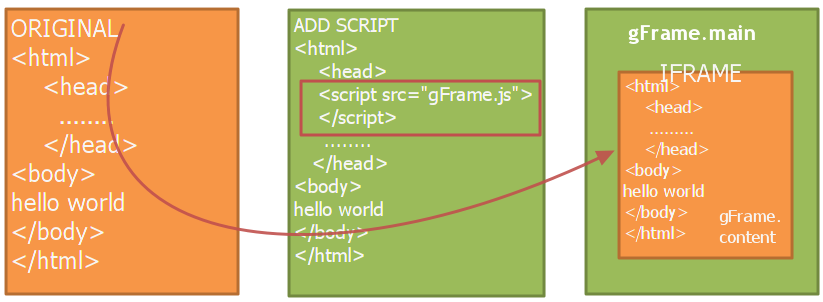
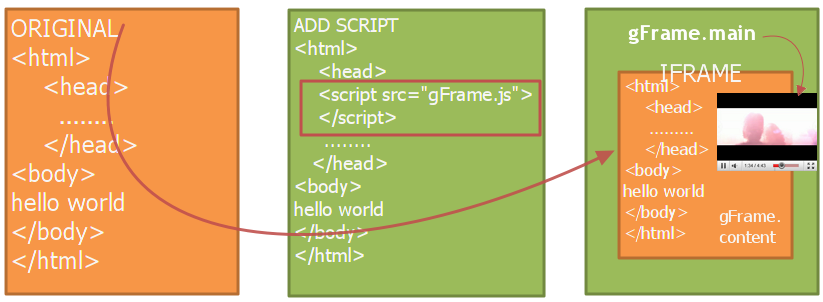
added missing function

Changed region(s): [[0.8505, 0.2682, 1.0, 0.5662], [0.9417, 0.1192, 0.9721, 0.149]]

diff --git a/demo/index.html b/demo/index.html
@@ -8,6 +8,7 @@
 	<style>
     body {
       font-family: Helvetica, Arial, FreeSans, san-serif;
+	  line-height: 1.75em;
 	  color:#434343;
     }
 	#title {text-align:center;font-size:24px; border-bottom:1px solid #DEDEDE;padding:10px;margin:0;line-height:10px;
@@ -49,19 +50,21 @@
 		<span id="ver"></span> <div id="pages"><span>HOME</span><span>DEMO1</span><span>DEMO2</span><span>API</span><span>DOWNLOAD</span></div></h1>
 	<div id="container">
 		<div id="maker"> made by <a href="http://50ndd1n6.tistory.com" target="_blank">50ndd1n6</a> </div>
+		gFrame is for inserting frame document by javascript. Although many skin(or template) of sites can be modified, one can't make a plain html page. If you play the music in the blog without stopping. gFrame helps you. gFrame is available in the mordern browser and old one. From IE5.5 to IE10, gFrame works well. gFrame gives you another useful thing. You can handle element(gLayer) without painful. gFrame is written in ASCII. It is availble in the almost charset. (ASCII, UTF-8, ISO8601-X, EUC-KR, EUC-JP, CP949, ...)    
 		<h3> USAGE </h3>
 		<div id="imgDesc">
 			<img src="image.png" alt="image description"/>
 		</div>
 		<h3> EXAMPLE (gLayer)</h3>
 		<div class="pre">
-		<pre class="brush: js">gFrame("EXAM1", 
+		<pre class="brush: js">gFrame("exam1", 
 		'&lt;embed src="http://www.youtube.com/p/D6142C77D6649A20?hl=ko_KR&amp;fs=1"
 		    type="application/x-shockwave-flash" width="100%" height="100%"
 			allowscriptaccess="always" allowfullscreen="true" wmode="transparent">
 		&lt;/embed>', 
 		{top:30, left:30, width: 240, height: 185, style:'border: 3px solid #f00'});</pre></div>
-		<button id="EXAM1-ON">gFrame.create()</button>
+		<button id="EXAM1-ON">gFrame('exam1','code',options)</button>
+		<button onclick="gFrame('exam1').remove()">gFrame('exam1').remove()</button><br/>
 		<button onclick="gFrame('exam1').hide()">gFrame('exam1').hide()</button>
 		<button onclick="gFrame('exam1').show()">gFrame('exam1').show()</button><br/>
 		<button onclick="gFrame('exam1').toBack()">gFrame('exam1').toBack()</button>
@@ -76,7 +79,7 @@
 		$("#pages span").hover(function(){$(this).addClass("hover")}, function(){$(this).removeClass("hover")});
 		$("#titleWrap").hover(function(){$(this).addClass("hover")}, function(){$(this).removeClass("hover")});
 		$("#EXAM1-ON").click(function(){
-			gFrame("EXAM1", '<embed src="http://www.youtube.com/p/D6142C77D6649A20?hl=ko_KR&amp;fs=1"type="application/x-shockwave-flash" width="100%" height="100%" allowscriptaccess="always" allowfullscreen="true" wmode="transparent"></embed>', 
+			gFrame("exam1", '<embed src="http://www.youtube.com/p/D6142C77D6649A20?hl=ko_KR&amp;fs=1"type="application/x-shockwave-flash" width="100%" height="100%" allowscriptaccess="always" allowfullscreen="true" wmode="transparent"></embed>', 
 			{top:30, left:30, width: 240, height: 185, style:'border: 3px solid #f00'});
 		});
 	});

diff --git a/gFrame.js b/gFrame.js
@@ -220,6 +220,7 @@
 	gFrame.title = function(title) {top.document.title = title; return gFrame};
 	gFrame.get = function(id) {
 		var target = gFrame.main.document.getElementById(id);
+		if (!target) return {};
 		return {
 			id      : target.id,
 			element : target,
@@ -262,7 +263,8 @@
 				} else return gFrame.zIndex(this.id);
 			},
 			hide    : function( ) { gFrame.hide  (this.id);       return this}, 
-			show    : function(v) { gFrame.show  (this.id);       return this} 
+			show    : function( ) { gFrame.show  (this.id);       return this},
+			remove  : function( ) { gFrame.remove(this.id);       return this} 
 		};
 	};
 	gFrame.size = function() {

diff --git a/index.html b/index.html
@@ -1,6 +1,10 @@
 <!DOCTYPE html>
 <html>
 <head>
+	<script type="text/javascript">
+	self.location.replace('demo/index.html');
+	</script>
+
   <meta charset='utf-8'>
 
   <title>floras/gFrame @ GitHub</title>

diff --git a/CHANGELOGS.md b/CHANGELOGS.md
@@ -1,3 +1,9 @@
+v0.1.02pa
+===
+
+*  [New] gFrame.alive property for checking gFrame is alive 
+*  [New] gFrame.block, gFrame.unBlock
+
 v0.1.01pa
 ===
 
